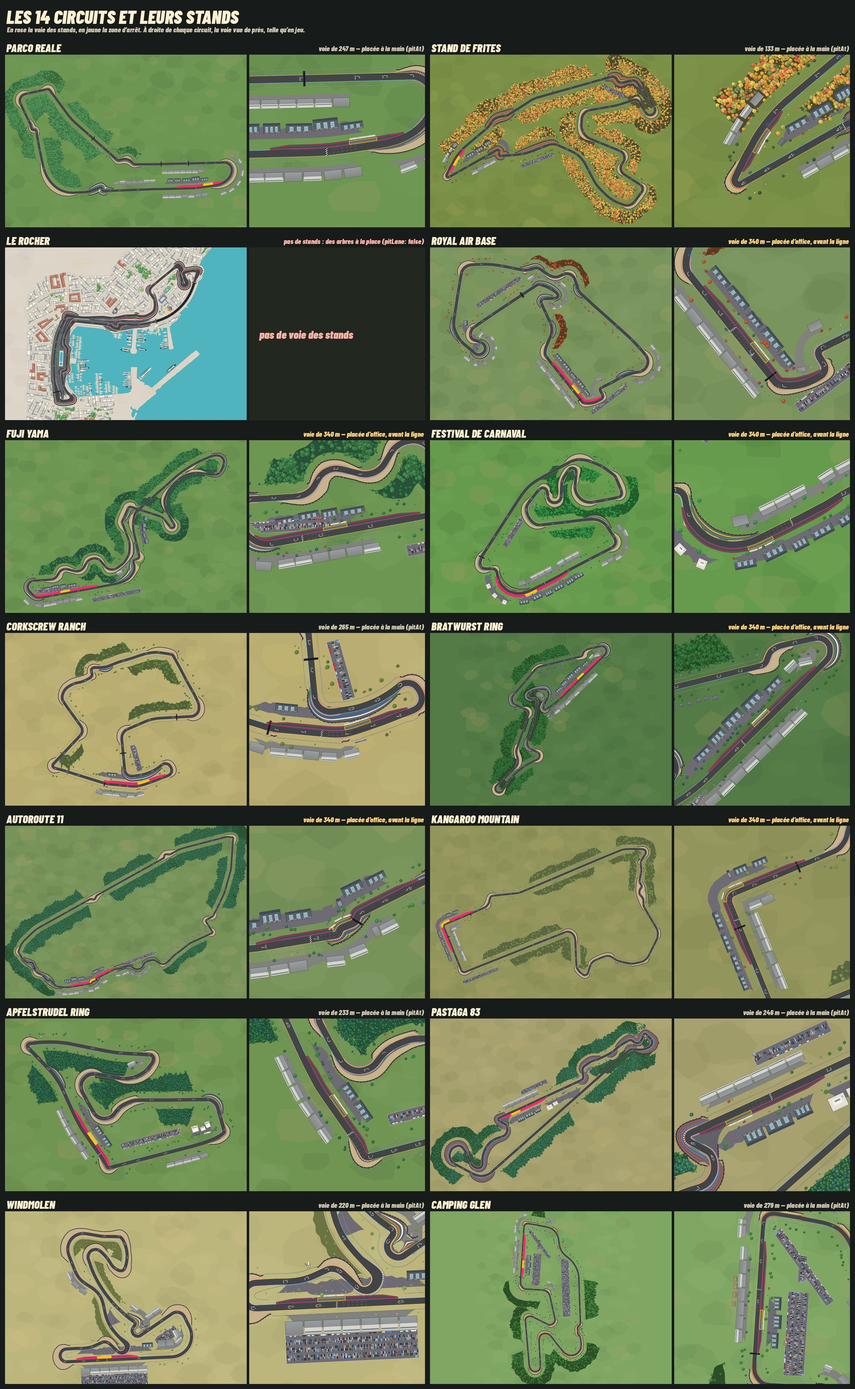
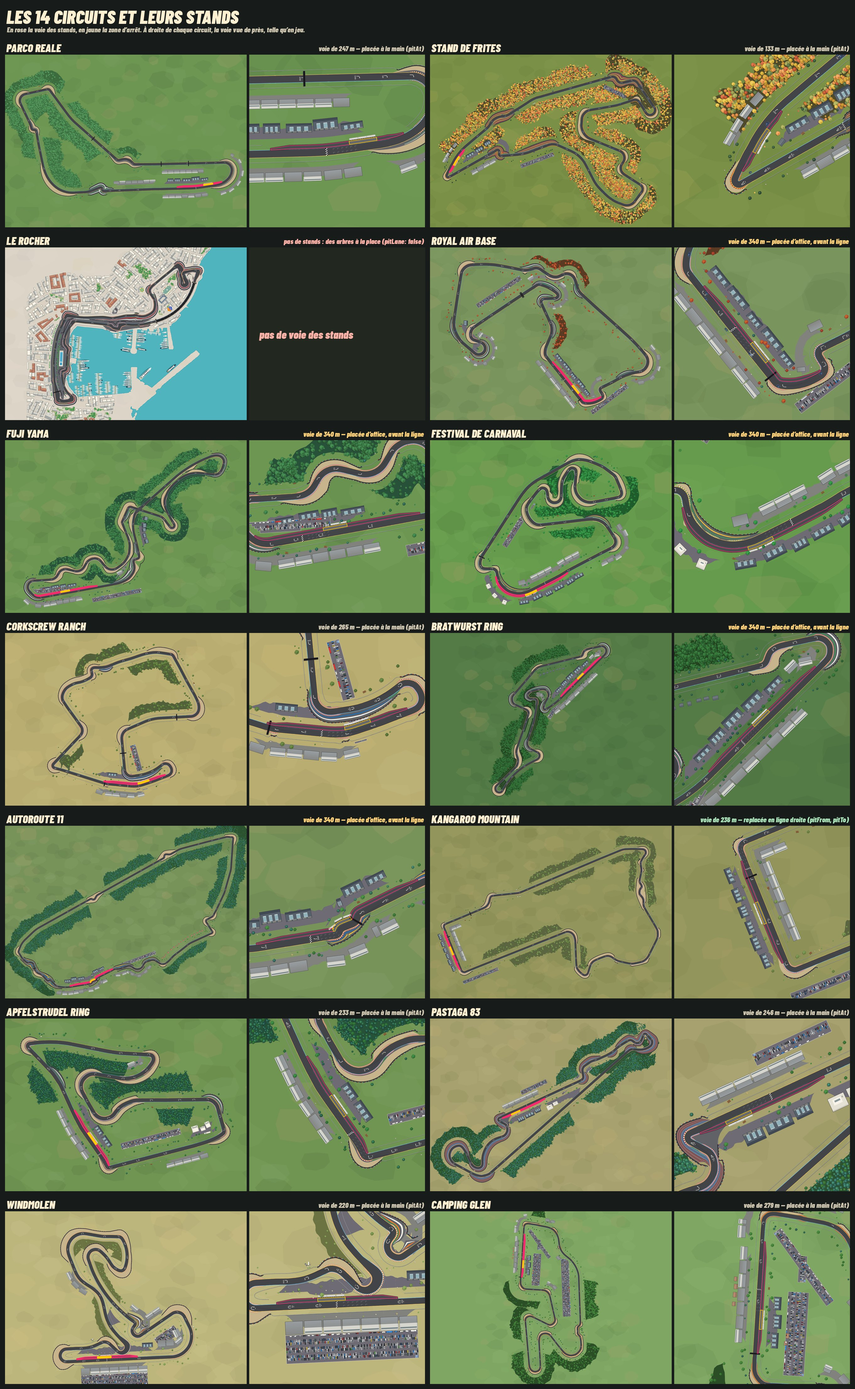
Dégâts (essai) : la voie des stands de Kangaroo Mountain en ligne droite
Placée d'office, elle passait dans le virage à angle droit d'avant la ligne.
Elle tient maintenant sur la droite de la ligne, de la sortie du virage à
216 m après la ligne d'arrivée (pitFrom, pitTo, pitAt), et les bâtiments des
stands la suivent. La planche des circuits est refaite.

Claude-Session: https://claude.ai/code/session_01WCku2F6Jz7QYnAByeRTzna

Changed region(s): [[0.8113, 0.5615, 0.9985, 0.7175], [0.4993, 0.6551, 0.5305, 0.6863]]

diff --git a/js/tracks.js b/js/tracks.js
@@ -1703,6 +1703,13 @@ const TRACKS = [
   {
     id: 'bathurst', name: 'Kangaroo Mountain', country: 'AU', flag: '🇦🇺', theme: 'bush',
     runoffJoinGap: 60,
+    /* LA VOIE DES STANDS EN LIGNE DROITE (essai des dégâts). Placée d'office, elle partait de la
+       droite d'avant le dernier virage, passait DANS ce virage à angle droit, et ne finissait qu'après
+       la ligne : « ça ne va pas, il faut en ligne droite, tant pis si ça fait passer la ligne
+       d'arrivée » (Bruno). Elle tient maintenant sur la droite de la ligne, de la sortie du virage
+       (20 m avant la ligne) à 216 m après, avant le léger virage qui suit : 236 m, la zone d'arrêt au
+       milieu. Les bâtiments des stands (`stands`, plus bas) la suivent. */
+    pitFrom: 0.9944, pitTo: 0.06, pitAt: 0.0272,
     architecture: 'pavillons',
     barriers: true,   // protections dessinées et collisions : voir docs/spa-barrieres/README.md
     kerb: DRAPEAUX.au,
@@ -1784,7 +1791,7 @@ const TRACKS = [
       { name: 'Murrays Corner', surface: 'gravel', side: -1, from: 0.882, to: 0.922, w: 14 },
     ],
     implantation: [
-      { kind: 'stands', side: -1, from: 0.955, to: 0.045, recul: 10, prof: 20, module: 36 },
+      { kind: 'stands', side: -1, from: 0.995, to: 0.06, recul: 10, prof: 20, module: 36 },
       { kind: 'tribune', side: 1, from: 0.96, to: 0.05, recul: 9, prof: 17, module: 28 },
       { kind: 'parking', side: -1, from: 0.06, to: 0.12, recul: 16, prof: 32 },
       { kind: 'bois', side: 1, from: 0.1, to: 0.24, recul: 10, prof: 44, densite: 0.4 },
